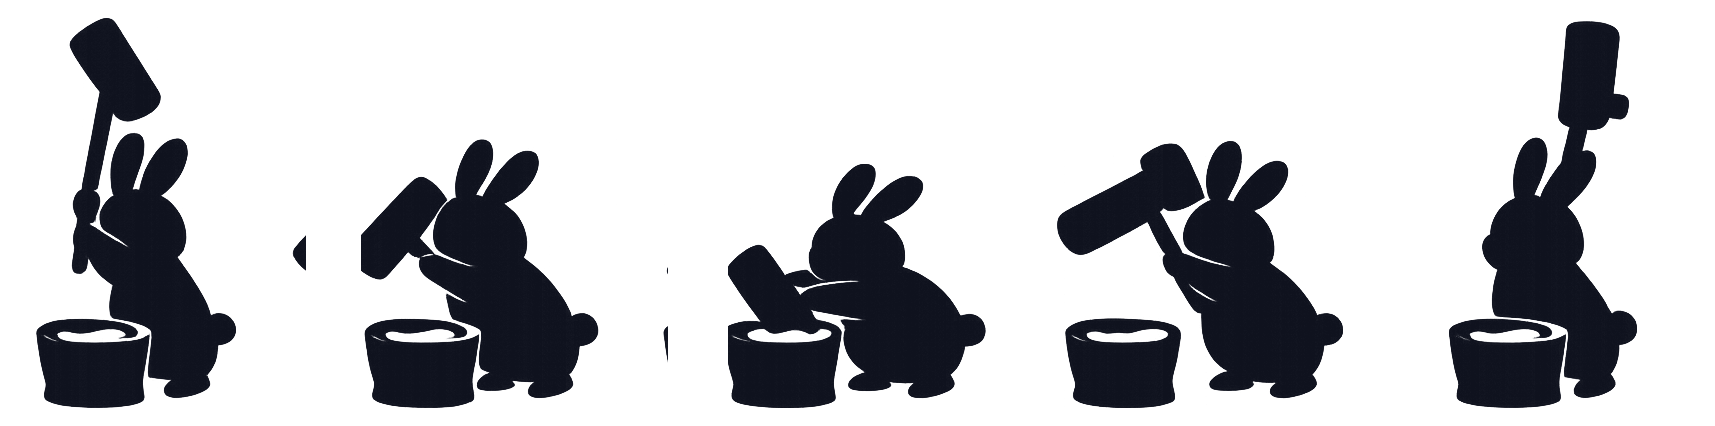
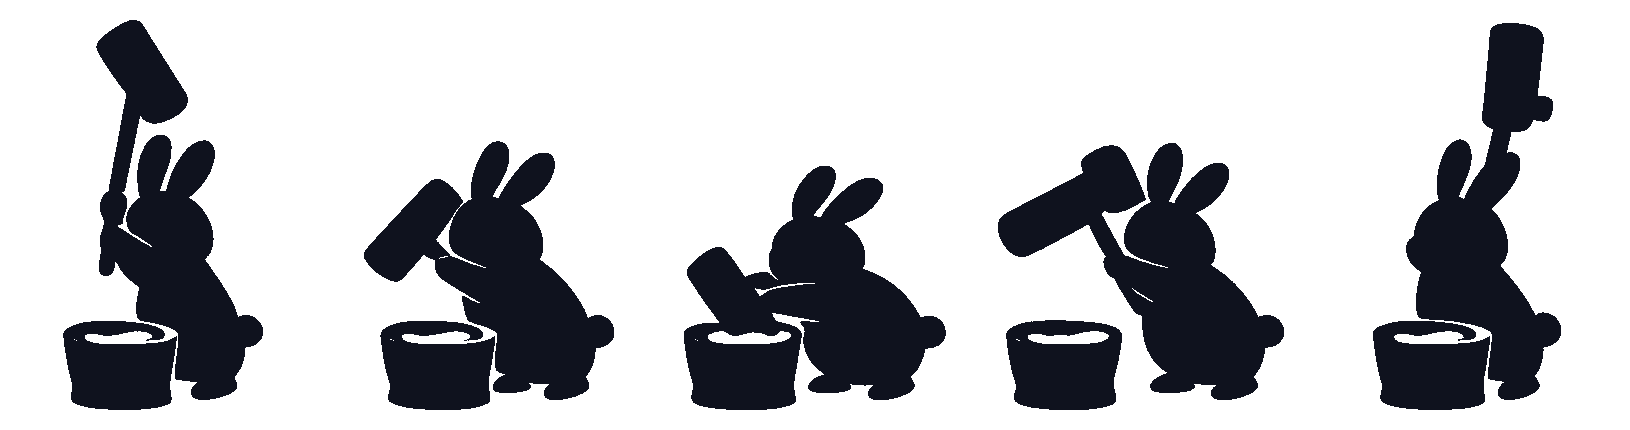
orthos: clean gap-sliced rabbit sheet + slower scroll tempo

diff --git a/orthos/index.html b/orthos/index.html
@@ -49,7 +49,7 @@ img{display:block;max-width:100%}h1,h2,h3{line-height:1.2;letter-spacing:-.01em;
 @keyframes witchFly{0%,66%{opacity:0;transform:translate(-50%,-50%) translate(22vw,-2vh)}72%{opacity:.92}93%{opacity:.92}100%{opacity:0;transform:translate(-50%,-50%) translate(-22vw,2vh)}}
 .moon-scene{position:fixed;top:74px;right:24px;width:132px;height:132px;z-index:7;pointer-events:none}
 .moon-disc{position:absolute;inset:0;border-radius:50%;overflow:hidden;background:#0a0a0c url("img/moon.jpg") center/108% no-repeat;box-shadow:0 0 28px 6px rgba(240,242,250,.4),0 0 80px 24px rgba(220,228,255,.14),inset -4px -5px 16px rgba(0,0,0,.4)}
-.moon-scene .pounder{position:absolute;left:50%;top:54%;width:94px;height:116px;transform:translate(-50%,-50%);background:url("img/rabbit-sheet.png") 0 0/470px 116px no-repeat}
+.moon-scene .pounder{position:absolute;left:50%;top:54%;width:88px;height:116px;transform:translate(-50%,-50%);background:url("img/rabbit-sheet.png") 0 0/440px 116px no-repeat}
 @media(max-width:700px){.moon-scene{top:auto;bottom:18px;right:10px;transform:scale(.72);transform-origin:bottom right}}
 @media(prefers-reduced-motion:reduce){.moon-scene .pounder{animation:none}}
 @media (prefers-reduced-motion:reduce){.shoot{display:none}.moon-glow{animation:none;opacity:.24}.witch{display:none}}
@@ -386,6 +386,6 @@ function apply(){const t=(q.value||'').trim().toLowerCase();let shown=0;
 [q,os,od].forEach(el=>el.addEventListener('input',apply));
 // スクロールで月の濃さを変える（上=薄い → 下=濃い）。動きを嫌う設定は尊重
 const root=document.documentElement;const pdr=document.querySelector('.moon-scene .pounder');
-function moon(){const max=Math.max(1,document.body.scrollHeight-innerHeight);const p=Math.min(1,Math.max(0,scrollY/max));root.style.setProperty('--moon-op',(0.16+p*0.62).toFixed(3));if(pdr){var fr=Math.floor(scrollY/52)%5;if(fr<0)fr+=5;pdr.style.backgroundPosition=(-fr*94)+'px 0';}}
+function moon(){const max=Math.max(1,document.body.scrollHeight-innerHeight);const p=Math.min(1,Math.max(0,scrollY/max));root.style.setProperty('--moon-op',(0.16+p*0.62).toFixed(3));if(pdr){var fr=Math.floor(scrollY/80)%5;if(fr<0)fr+=5;pdr.style.backgroundPosition=(-fr*88)+'px 0';}}
 if(!matchMedia('(prefers-reduced-motion:reduce)').matches){let t=false;addEventListener('scroll',()=>{if(!t){t=true;requestAnimationFrame(()=>{moon();t=false;});}},{passive:true});addEventListener('resize',moon,{passive:true});moon();}else{root.style.setProperty('--moon-op','.32');}
 </script></body></html>
